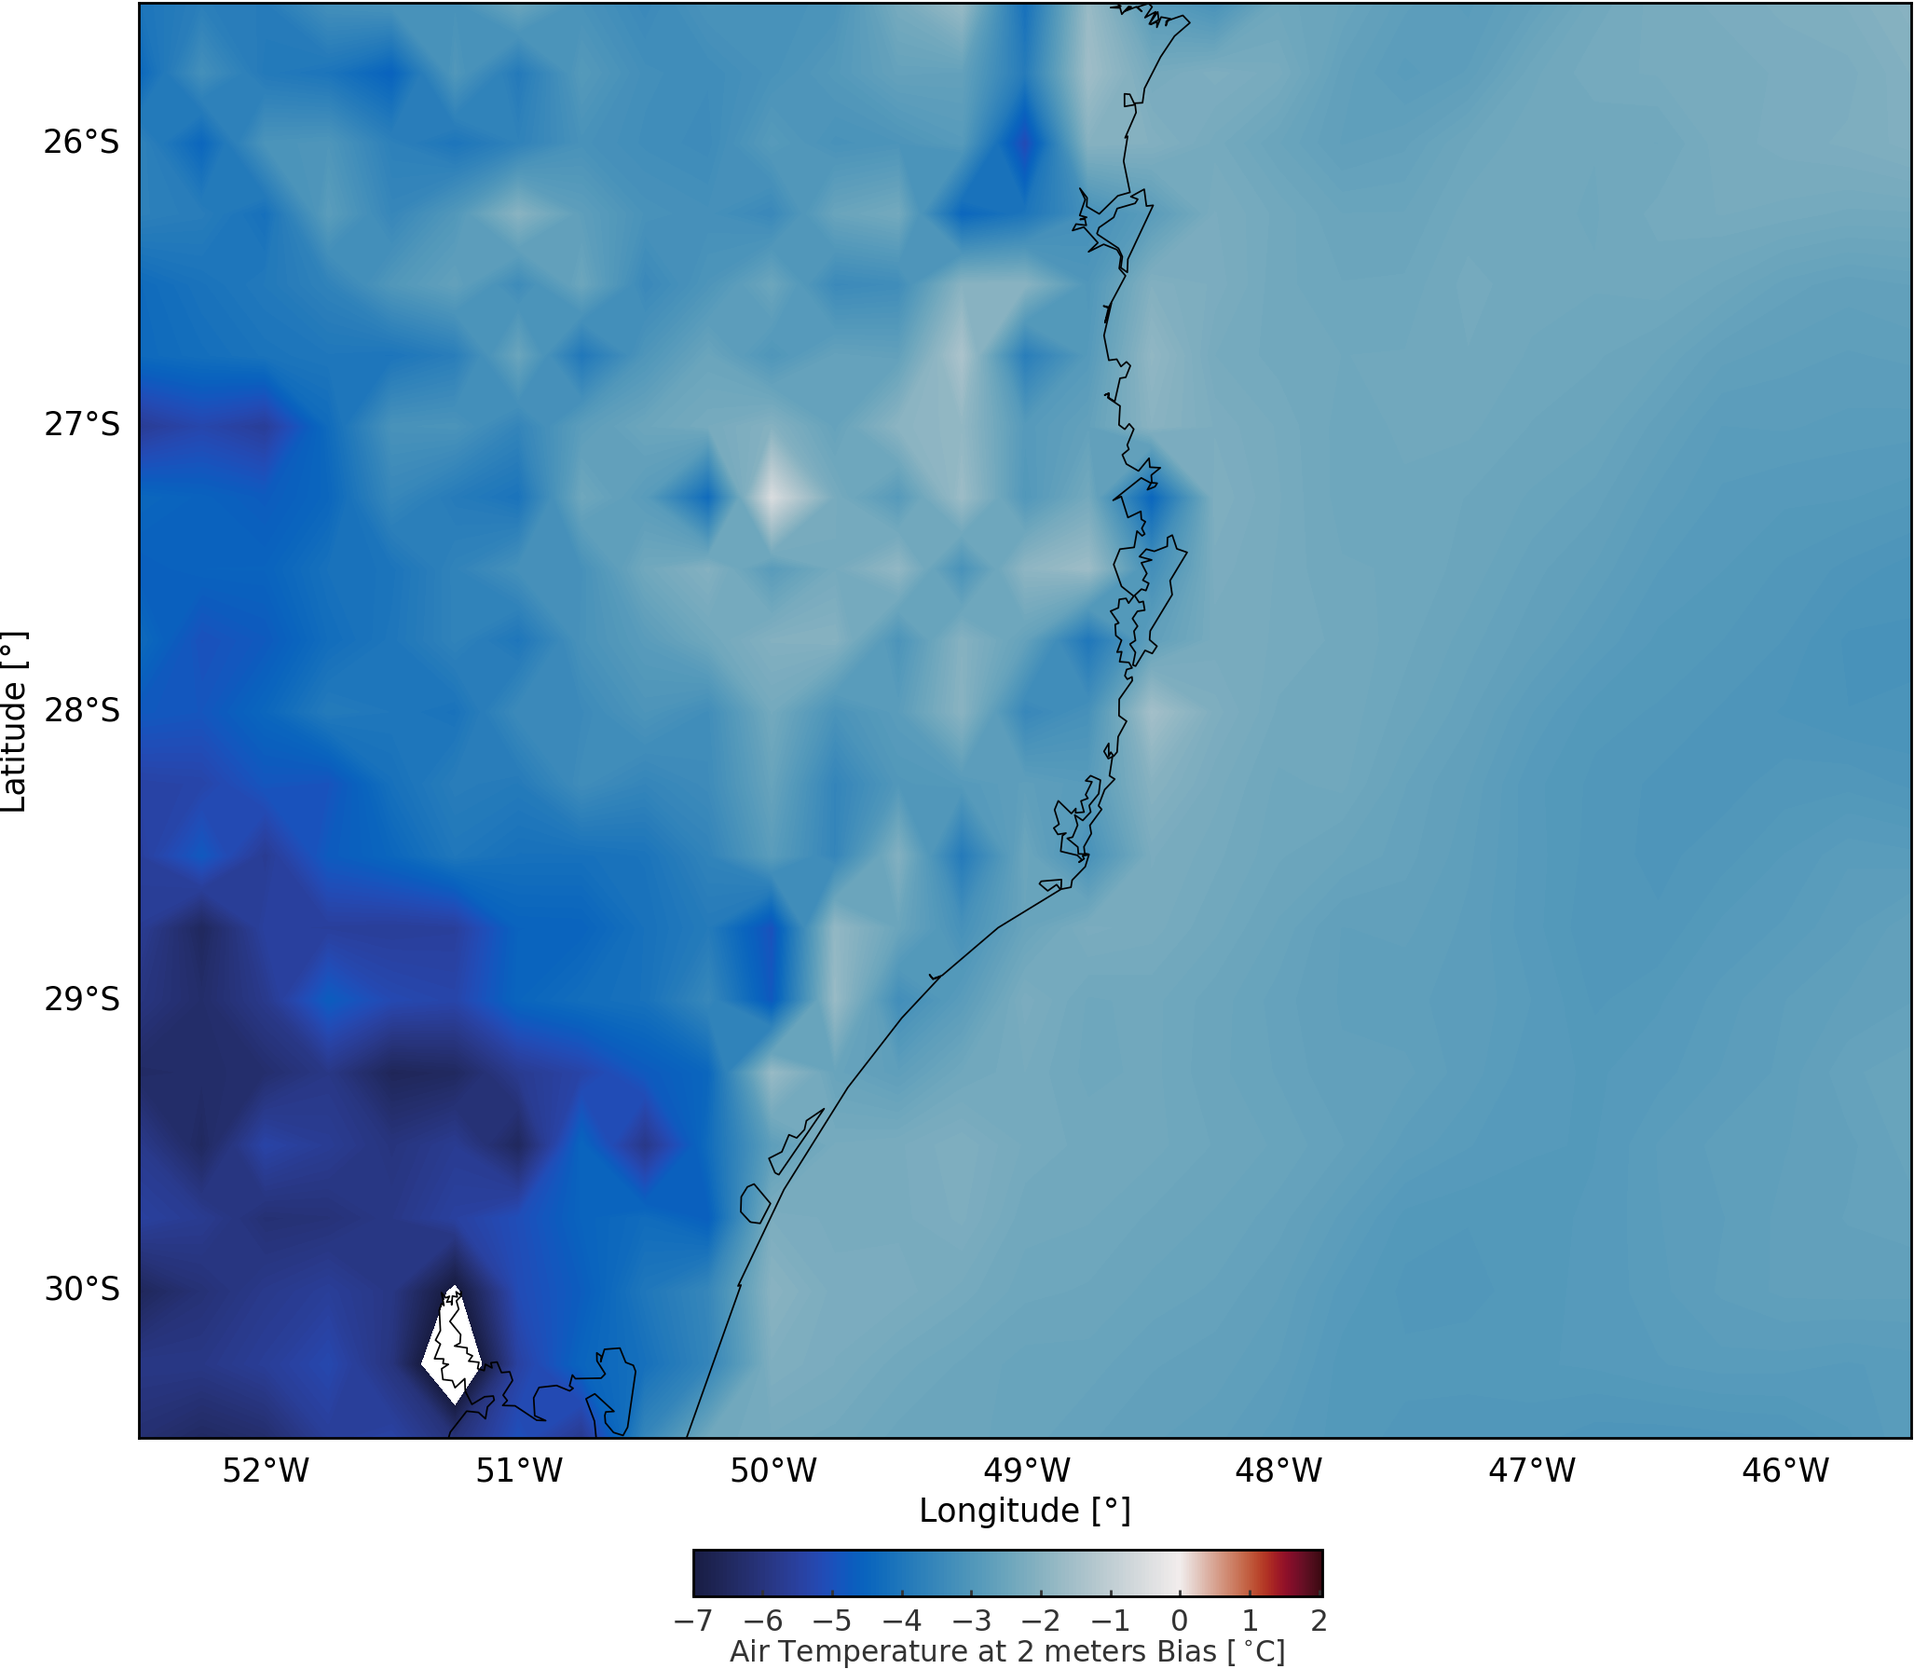
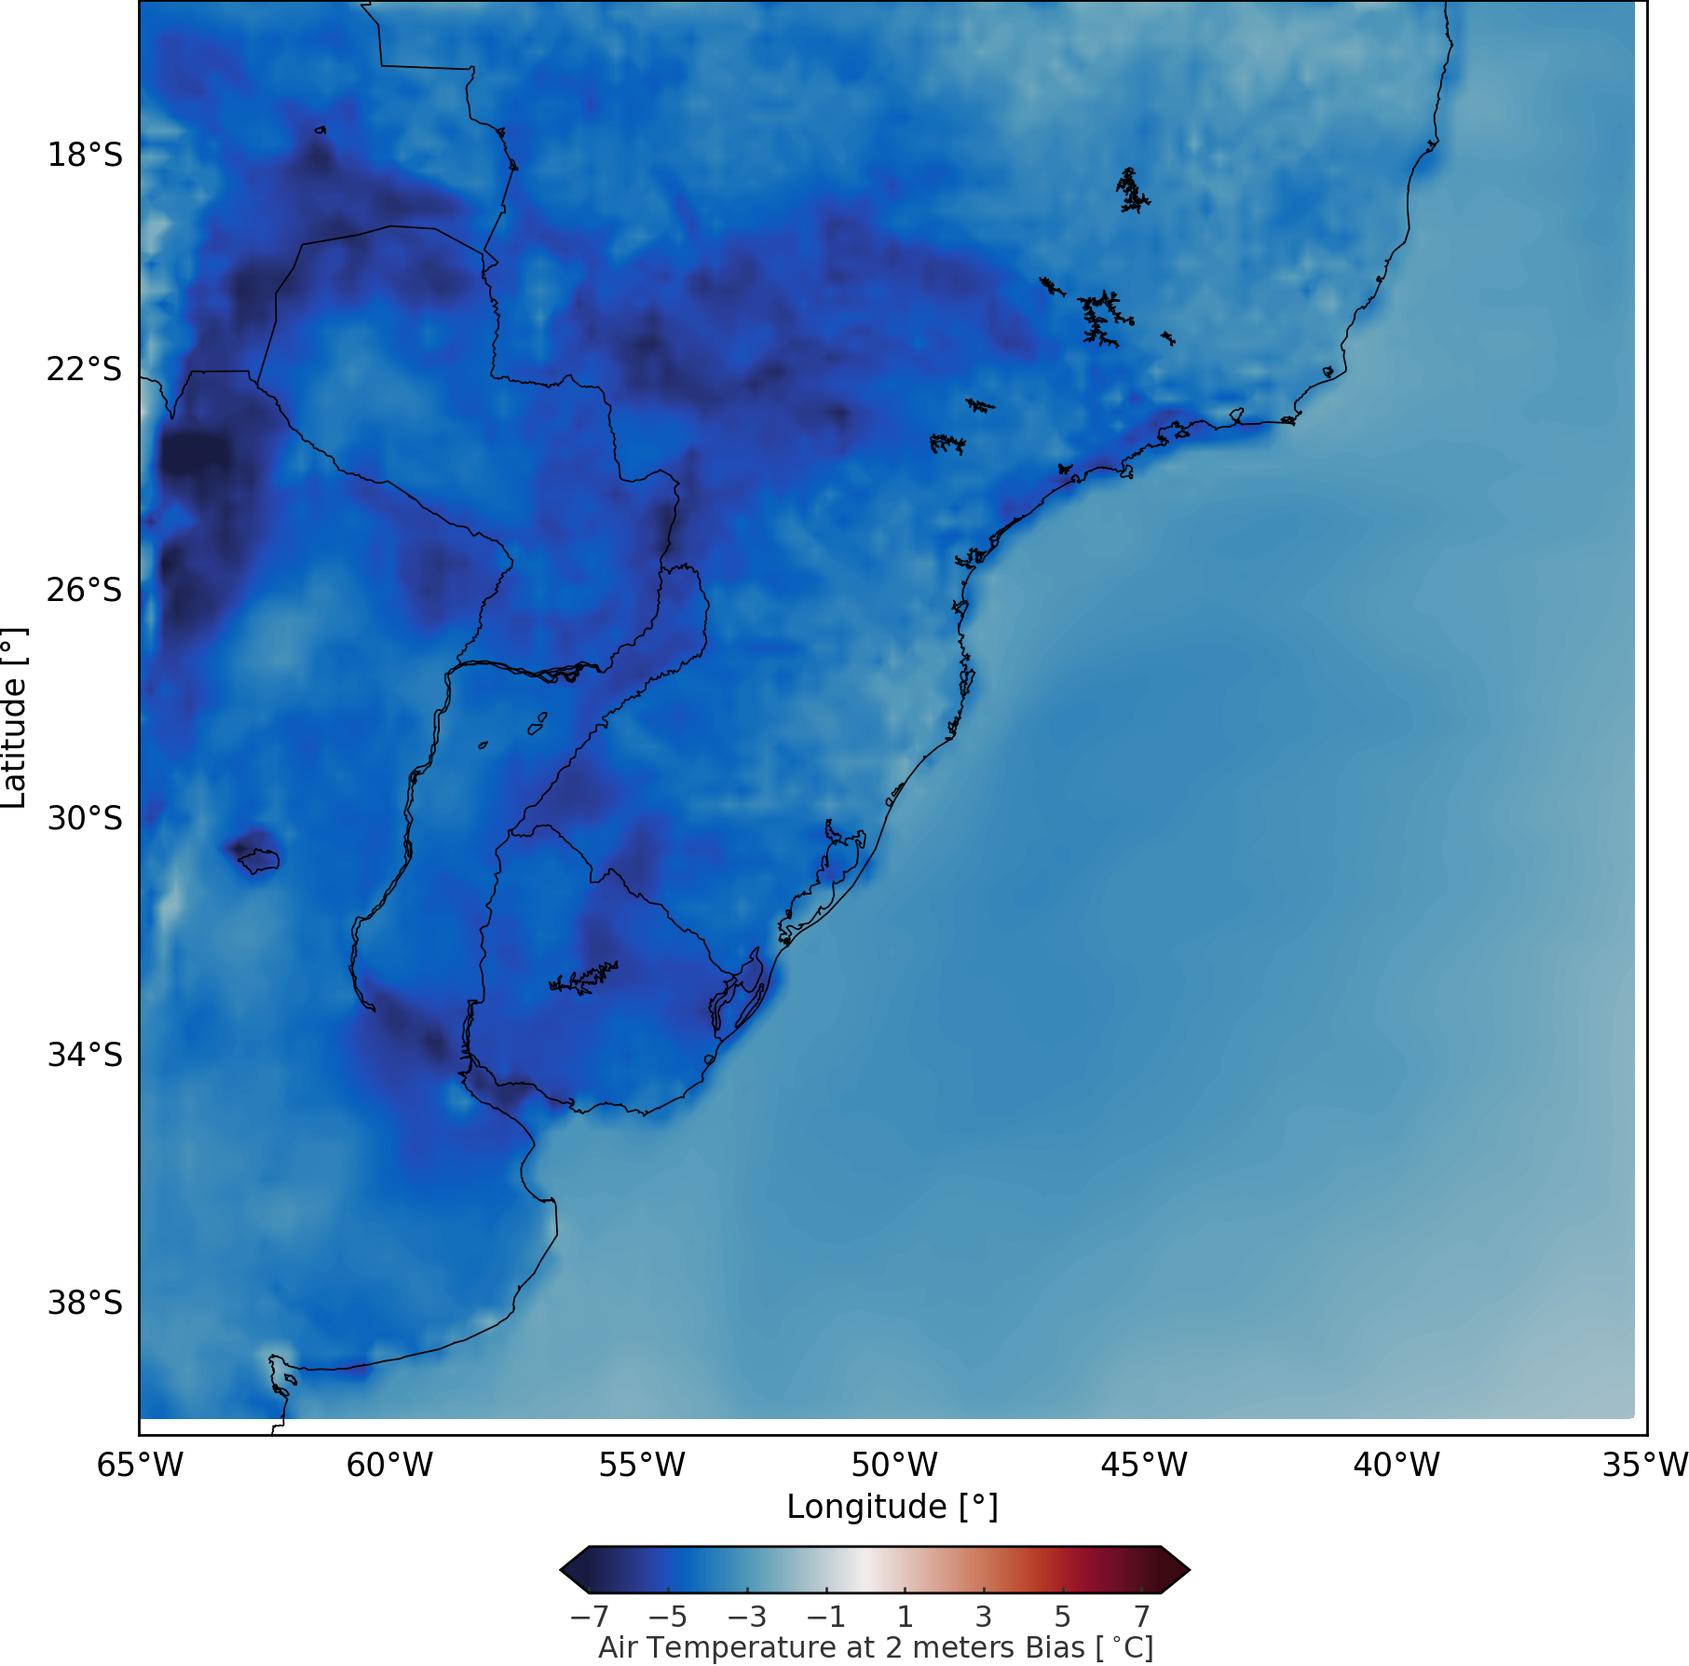
Updating

diff --git a/evaluation_wrf.py b/evaluation_wrf.py
@@ -26,16 +26,13 @@ Compare:
         Temperature at 2 meters height (°C);
         Wind Speed at 10 m height (m/s);
         Sea Level Pressure (hPa);
-        
-    - MSWEP (Beck et al., 2019; http://www.gloh2o.org/):
-        Daily Precipitation (mm).
 
 Post-process the WRF simulation to match with the databases:
     cdo seltimestep,169/336 wrf.nc wrf_ts.nc
     cdo daymean wrf_ts.nc wrf_ts_daymean_mswep.nc
     cdo timselmean,6 wrf_ts.nc wrf_ts_6hour_cfsr.nc
 """
-  
+
 # Library import.
 import numpy as np
 import matplotlib.pyplot as plt
@@ -44,25 +41,22 @@ import netCDF4
 from   roms_libs import *
 import pyresample
 import cmocean
-import subprocess, os
-from wrf import destagger,getvar
-from sty import bg, rs
+import os
+from wrf import getvar
 from progress.bar import IncrementalBar
-matplotlib.use("Agg")
+matplotlib.use('Agg')
 
 # Customizations.
-bbox                = [-52.5, -45.5, -30.5, -25.5]
-lonbounds           = [-52.5,-45.5] 
-latbounds           = [-30.5,-25.5]
-wrf_file          = '/media/ueslei/Ueslei/INPE/PCI/Projetos/SC_2008/Outputs/normal/wrf.nc'
+bbox              = [-65,-35,-40,-15]
+lonbounds         = [-65,-35] 
+latbounds         = [-40,-15]
+wrf_file          = '/media/ueslei/Ueslei/INPE/PCI/Projetos/SC_2008/Outputs/normal/wrf_ts.nc'
 wrf_file_cfsr     = '/media/ueslei/Ueslei/INPE/PCI/Projetos/SC_2008/Outputs/normal/wrf_6h_ncks.nc'
-wrf_file_mswep    = '/media/ueslei/Ueslei/INPE/PCI/Projetos/SC_2008/Outputs/normal/wrf_daymean_ncks.nc'
 era_file          = '/media/ueslei/Ueslei/INPE/PCI/Projetos/SC_2008/Dados/Evaluation/ERA5/era5.nc'
 cfsr_file         = '/media/ueslei/Ueslei/INPE/PCI/Projetos/SC_2008/Dados/Evaluation/CFSR/cfsr.nc'
-mswep_file        = '/media/ueslei/Ueslei/INPE/PCI/Projetos/SC_2008/Dados/Evaluation/MSWEP/mswep.nc'
 
-clevs_bias_t2     = np.arange(-7,2.05,0.01)
-ticks_bias_t2     = np.arange(min(clevs_bias_t2),max(clevs_bias_t2),1)
+clevs_bias_t2     = np.arange(-7,7.5,0.01)
+ticks_bias_t2     = np.arange(min(clevs_bias_t2),max(clevs_bias_t2),2)
 clevs_rmse_t2     = np.arange(0,9.05,0.01)
 ticks_rmse_t2     = np.arange(min(clevs_rmse_t2),max(clevs_rmse_t2),1)
 clevs_nrmse_t2    = np.arange(0,0.405,0.001)
@@ -88,30 +82,21 @@ ticks_nrmse_slp   = np.arange(min(clevs_nrmse_slp),max(clevs_nrmse_slp),0.3)
 clevs_mae_slp     = np.arange(0,14.02,0.01)
 ticks_mae_slp     = np.arange(min(clevs_mae_slp),max(clevs_mae_slp),1)
 
-clevs_bias_prec   = np.arange(-15,225.1,0.1)
-ticks_bias_prec   = np.arange(min(clevs_bias_prec),max(clevs_bias_prec),20)
-clevs_rmse_prec   = np.arange(0,230.1,0.1)
-ticks_rmse_prec   = np.arange(min(clevs_rmse_prec),max(clevs_rmse_prec),20)
-clevs_nrmse_prec  = np.arange(0,230.03,0.1)
-ticks_nrmse_prec  = np.arange(min(clevs_nrmse_prec),max(clevs_nrmse_prec),5)
-clevs_mae_prec    = np.arange(0,5.02,0.01)
-ticks_mae_prec    = np.arange(min(clevs_mae_prec),max(clevs_mae_prec),1)
-
-
-print(bg.da_cyan+'Which data? (1) ERA5, (2) CFSR or (3) MSWEP?'+bg.rs)      
+print('Which data? (1) ERA5 or (2) CFSR?')      
 dataset  = input()
+
 if dataset == '1':
-    print(bg.da_cyan+'Evaluate which WRF-ARW variable? (1) Temperature at 2 meters, (2) Wind Speed at 10m, (3) Sea Level Pressure?'+bg.rs)
+    print('Evaluate which WRF-ARW variable? (1) Temperature at 2 meters, (2) Wind Speed at 10m, (3) Sea Level Pressure?')
     contourf_var  = input()
     if contourf_var == '1':
         nc_era      = netCDF4.Dataset(era_file)
-        lon_era     = nc_era.variables['longitude'][:]-180
+        lon_era     = nc_era.variables['longitude'][:]-360
         lat_era     = nc_era.variables['latitude'][:]
         latli       = np.argmin(np.abs(lat_era-latbounds[1]))
         latui       = np.argmin(np.abs(lat_era-latbounds[0])) 
         lonli       = np.argmin(np.abs(lon_era-lonbounds[0]))
         lonui       = np.argmin(np.abs(lon_era-lonbounds[1]))  
-        lon_era     = nc_era.variables['longitude'][lonli:lonui]-180
+        lon_era     = nc_era.variables['longitude'][lonli:lonui]-360
         lat_era     = nc_era.variables['latitude'][latli:latui]
         lon_era,lat_era = np.meshgrid(lon_era,lat_era)
         era_lat_len = len(lat_era[:,0])
@@ -126,8 +111,8 @@ if dataset == '1':
         bar.finish()
                        
         nc_wrf      = netCDF4.Dataset(wrf_file)
-        lon_wrf     = nc_wrf.variables['XLONG'][0,0,:]
-        lat_wrf     = nc_wrf.variables['XLAT'][0,:,0]               
+        lon_wrf     = nc_wrf.variables['XLONG'][0,:]
+        lat_wrf     = nc_wrf.variables['XLAT'][:,0]               
         latli       = np.argmin(np.abs(lat_wrf-latbounds[1]))
         latui       = np.argmin(np.abs(lat_wrf-latbounds[0])) 
         lonli       = np.argmin(np.abs(lon_wrf-lonbounds[0]))
@@ -173,8 +158,8 @@ if dataset == '1':
             bar.next()
         bar.finish()
         nc_wrf      = netCDF4.Dataset(wrf_file)
-        lon_wrf     = nc_wrf.variables['XLONG'][0,0,:]
-        lat_wrf     = nc_wrf.variables['XLAT'][0,:,0]               
+        lon_wrf     = nc_wrf.variables['XLONG'][0,:]
+        lat_wrf     = nc_wrf.variables['XLAT'][:,0]               
         latli       = np.argmin(np.abs(lat_wrf-latbounds[1]))
         latui       = np.argmin(np.abs(lat_wrf-latbounds[0])) 
         lonli       = np.argmin(np.abs(lon_wrf-lonbounds[0]))
@@ -226,8 +211,8 @@ if dataset == '1':
         bar.finish()  
 
         nc_wrf      = netCDF4.Dataset(wrf_file)
-        lon_wrf     = nc_wrf.variables['XLONG'][0,0,:]
-        lat_wrf     = nc_wrf.variables['XLAT'][0,:,0]               
+        lon_wrf     = nc_wrf.variables['XLONG'][0,:]
+        lat_wrf     = nc_wrf.variables['XLAT'][:,0]               
         latli       = np.argmin(np.abs(lat_wrf-latbounds[1]))
         latui       = np.argmin(np.abs(lat_wrf-latbounds[0])) 
         lonli       = np.argmin(np.abs(lon_wrf-lonbounds[0]))
@@ -249,7 +234,7 @@ if dataset == '1':
         bar.finish()  
         
 if dataset == '2':
-    print(bg.da_cyan+'Evaluate which WRF-ARW variable? (1) Temperature at 2 meters, (2) Wind Speed at 10m or (3) Sea Level Pressure?'+bg.rs)
+    print('Evaluate which WRF-ARW variable? (1) Temperature at 2 meters, (2) Wind Speed at 10m or (3) Sea Level Pressure?')
     contourf_var  = input()
     if contourf_var=='1':
         nc_cfsr      = netCDF4.Dataset(cfsr_file)
@@ -396,58 +381,7 @@ if dataset == '2':
             bar.next()
         bar.finish() 
 
-if dataset=='3':
-        contourf_var  = 1
-        nc_mswep      = netCDF4.Dataset(mswep_file)
-        lon_mswep     = nc_mswep.variables['lon'][:]
-        lat_mswep     = nc_mswep.variables['lat'][:]
-        latli_mswep   = np.argmin(np.abs(lat_mswep-latbounds[1]))
-        latui_mswep   = np.argmin(np.abs(lat_mswep-latbounds[0])) 
-        lonli_mswep   = np.argmin(np.abs(lon_mswep-lonbounds[0]))
-        lonui_mswep   = np.argmin(np.abs(lon_mswep-lonbounds[1]))
-        lon_mswep     = nc_mswep.variables['lon'][lonli_mswep:lonui_mswep]
-        lat_mswep     = nc_mswep.variables['lat'][latli_mswep:latui_mswep]
-        lon_mswep,lat_mswep = np.meshgrid(lon_mswep,lat_mswep)
-        mswep_loop    = len(nc_mswep.variables['time'][:])
-        mswep_lat_len = len(lat_mswep[:,0])
-        mswep_lon_len = len(lon_mswep[0, :])
-        observed      = np.zeros([mswep_loop,mswep_lat_len,mswep_lon_len])
-        bar           = IncrementalBar('Processing Precipitation from MSWEP', max=mswep_loop)  
-        for i in range(0,mswep_loop):
-            rain_mswep      = nc_mswep.variables['precipitation'][i,latli_mswep:latui_mswep,lonli_mswep:lonui_mswep]           
-            observed[i,:,:] = rain_mswep
-            bar.next()
-        bar.finish() 
-
-        nc_wrf      = netCDF4.Dataset(wrf_file_mswep)
-        lon_wrf     = nc_wrf.variables['XLONG'][0,:]
-        lat_wrf     = nc_wrf.variables['XLAT'][:,0]               
-        latli       = np.argmin(np.abs(lat_wrf-latbounds[1]))
-        latui       = np.argmin(np.abs(lat_wrf-latbounds[0])) 
-        lonli       = np.argmin(np.abs(lon_wrf-lonbounds[0]))
-        lonui       = np.argmin(np.abs(lon_wrf-lonbounds[1]))
-        lon_wrf     = lon_wrf[lonli:lonui]
-        lat_wrf     = lat_wrf[latui:latli]
-        lon_wrf,lat_wrf = np.meshgrid(lon_wrf,lat_wrf)      
-        wrf_loop    = len(nc_wrf.variables['Times'][:])
-        wrf_lat_len = len(lat_wrf[:,0])
-        wrf_lon_len = len(lon_wrf[0,:])
-        orig_def    = pyresample.geometry.SwathDefinition(lons=lon_wrf, lats=lat_wrf)
-        targ_def    = pyresample.geometry.SwathDefinition(lons=lon_mswep, lats=lat_mswep)
-        rainc_wrf2  = np.zeros([mswep_loop,mswep_lat_len,mswep_lon_len])
-        rainnc_wrf2 = np.zeros([mswep_loop,mswep_lat_len,mswep_lon_len])   
-        rain_wrf2   = np.zeros([mswep_loop,mswep_lat_len,mswep_lon_len])   
-        bar         = IncrementalBar('Processing Precipitation from WRF', max=mswep_loop)  
-        for i in range(0,wrf_loop):  
-            rainc_wrf          =  nc_wrf.variables['RAINC'][i,latui:latli,lonli:lonui]
-            rainc_wrf2[i,:,:]  = pyresample.kd_tree.resample_gauss(orig_def, rainc_wrf, targ_def, radius_of_influence=50000, neighbours=10,sigmas=25000, fill_value=None)
-            rainnc_wrf         =  nc_wrf.variables['RAINNC'][i,latui:latli,lonli:lonui]
-            rainnc_wrf2[i,:,:] = pyresample.kd_tree.resample_gauss(orig_def, rainnc_wrf, targ_def, radius_of_influence=50000, neighbours=10,sigmas=25000, fill_value=None)
-            bar.next()
-        bar.finish() 
-        expected  = rainc_wrf2+rainnc_wrf2
-
-print(bg.da_cyan+'Which statistical metric? (1) Bias, (2) RMSE, (3) NRMSE or (4) MAE.'+bg.rs)
+print('Which statistical metric? (1) Bias, (2) RMSE, (3) NRMSE or (4) MAE.')
 metric  = input()
 if metric=='1':
     val = np.mean(expected-observed,axis=0)
@@ -473,8 +407,8 @@ fig  = plt.figure(1,figsize=(10,8))
 plt.xlabel('Longitude'u' [\N{DEGREE SIGN}]',labelpad=18,size=10)
 plt.ylabel('Latitude'u' [\N{DEGREE SIGN}]',labelpad=33,size=10)
 ax   = fig.add_subplot(111)
-m.drawparallels(np.arange(-90.,120.,1), linewidth=0.00, color='black', labels=[1,0,0,1],labelstyle="N/S",fontsize=10)
-m.drawmeridians(np.arange(-180.,180.,1), linewidth=0.00,color='black', labels=[1,0,0,1],labelstyle="N/S",fontsize=10)
+m.drawparallels(np.arange(-90.,120.,4), linewidth=0.00, color='black', labels=[1,0,0,1],labelstyle="N/S",fontsize=10)
+m.drawmeridians(np.arange(-180.,180.,5), linewidth=0.00,color='black', labels=[1,0,0,1],labelstyle="N/S",fontsize=10)
 m.drawcountries(color = '#000000',linewidth=0.5)
 m.drawcoastlines(color = '#000000',linewidth=0.5)
 
@@ -514,42 +448,24 @@ if metric=='3' and contourf_var=='3':
 if metric=='4' and contourf_var=='3':
     clevs = clevs_mae_slp
     ticks = ticks_mae_slp
-if metric=='1' and dataset=='3':
-    clevs = clevs_bias_prec
-    ticks = ticks_bias_prec
-if metric=='2' and dataset=='3':
-    clevs = clevs_rmse_prec
-    ticks = ticks_rmse_prec
-if metric=='3' and dataset=='3':
-    clevs = clevs_nrmse_prec
-    ticks = ticks_nrmse_prec
-if metric=='4' and dataset=='3':
-    clevs = clevs_mae_prec
-    ticks = ticks_mae_prec
 
 if dataset == '1':
     if metric=='2' or metric=='3' or metric == '4':
         cmap  = matplotlib.pyplot.jet()
-        h1    = m.contourf(lon_era, lat_era, val, clevs,latlon=True,cmap=cmap)
+        h1    = m.contourf(lon_era, lat_era, val, clevs,latlon=True,cmap=cmap,extend="both")
     if metric=='1':
         cmap  = cmocean.cm.balance
-        h1    = m.contourf(lon_era, lat_era, val, clevs,latlon=True,cmap=cmap,norm=MidpointNormalize(midpoint=0))          
+        h1    = m.contourf(lon_era, lat_era, val, clevs,latlon=True,cmap=cmap,norm=MidpointNormalize(midpoint=0),extend="both")          
 if dataset =='2':
     if metric=='2' or metric=='3' or metric == '4':
         cmap  = matplotlib.pyplot.jet()
         h1    = m.contourf(lon_cfsr, lat_cfsr, val, clevs,latlon=True,cmap=cmap)   
     if metric=='1':
         cmap  = cmocean.cm.balance
-        h1    = m.contourf(lon_cfsr, lat_cfsr, val, clevs,latlon=True,cmap=cmap,norm=MidpointNormalize(midpoint=0)) 
-if dataset == '3':
-    if metric=='2' or metric=='3' or metric == '4':
-        cmap  = matplotlib.pyplot.jet()
-        h1    = m.contourf(lon_mswep, lat_mswep, val, clevs,latlon=True,cmap=cmap)   
-    if metric=='1':
-        cmap  = cmocean.cm.balance
-        h1    = m.contourf(lon_mswep, lat_mswep, val, clevs,latlon=True,cmap=cmap,norm=MidpointNormalize(midpoint=0)) 
+        h1    = m.contourf(lon_cfsr, lat_cfsr, val, clevs,latlon=True,cmap=cmap,norm=MidpointNormalize(midpoint=0),extend="both") 
 cax   = fig.add_axes([0.37, 0.025, 0.27, 0.025])     
 cb    = fig.colorbar(h1, cax=cax, orientation="horizontal",panchor=(0.5,0.5),shrink=0.3,ticks=ticks,pad=-10.5)
+
 
 if metric=='1':
     if contourf_var=='1':
@@ -558,8 +474,7 @@ if metric=='1':
         cb.set_label(r'Wind Speed at 10 meters Bias [m.s⁻¹]', fontsize=9, color='0.2',labelpad=0)
     if contourf_var=='3':
          cb.set_label(r'Sea Level Pressure Bias [hPa]', fontsize=9, color='0.2',labelpad=0) 
-    if dataset=='3':
-        cb.set_label(r'Daily Precipitation Bias [mm]', fontsize=9, color='0.2',labelpad=0)                
+            
 if metric=='2':
     if contourf_var=='1':
         cb.set_label(r'Air Temperature at 2 meters Root Mean Square Error [$^\circ\!$C]', fontsize=5, color='0.2',labelpad=-0.2)
@@ -567,8 +482,7 @@ if metric=='2':
         cb.set_label(r'Wind Speed at 10 meters Root Mean Square Error [m.s⁻¹]', fontsize=5, color='0.2',labelpad=-0.2)
     if contourf_var=='3':
         cb.set_label(r'Sea Level Pressure Root Mean Square Error [hPa]', fontsize=5, color='0.2',labelpad=-0.2)  
-    if dataset=='3':
-        cb.set_label(r'Daily Precipitation Root Mean Square Error [mm]', fontsize=5, color='0.2',labelpad=-0.2)               
+          
 if metric=='3':
     if contourf_var=='1':
         cb.set_label(r'Air Temperature at 2 meters Normalized Root Mean Square Error [$^\circ\!$C]', fontsize=5, color='0.2',labelpad=-0.2)
@@ -576,8 +490,7 @@ if metric=='3':
         cb.set_label(r'Wind Speed at 10 meters Normalized Root Mean Square Error [m.s⁻¹]', fontsize=5, color='0.2',labelpad=-0.2)
     if contourf_var=='3':
         cb.set_label(r'Sea Level Pressure Normalized Root Mean Square Error [hPa]', fontsize=5, color='0.2',labelpad=-0.2)  
-    if dataset=='3':
-        cb.set_label(r'Daily Precipitation Normalized Root Mean Square Error [mm]', fontsize=5, color='0.2',labelpad=-0.2)               
+            
 if metric=='4':
     if contourf_var=='1':
         cb.set_label(r'Air Temperature at 2 meters Mean Absolute Error [$^\circ\!$C]', fontsize=5, color='0.2',labelpad=-0.2)
@@ -585,8 +498,6 @@ if metric=='4':
         cb.set_label(r'Wind Speed at 10 meters Mean Absolute Error [m.s⁻¹]', fontsize=5, color='0.2',labelpad=-0.2)
     if contourf_var=='3':
         cb.set_label(r'Sea Level Pressure Mean Absolute Error [hPa]', fontsize=5, color='0.2',labelpad=-0.2)  
-    if dataset=='3':
-        cb.set_label(r'Daily Precipitation Mean Absolute Error [mm]', fontsize=5, color='0.2',labelpad=-0.2)               
 
 cb.ax.tick_params(labelsize=9, length=2, color='0.2', labelcolor='0.2',direction='in') 
 cb.set_ticks(ticks)
@@ -642,13 +553,4 @@ if metric == '4' and dataset == '2' and contourf_var == '2':
         plt.savefig('./wrf_evaluation/wind_mae_wrf_cfsr.png', transparent=False, bbox_inches = 'tight', pad_inches=0, dpi=250)              
 if metric == '4' and dataset == '2' and contourf_var == '3':
         plt.savefig('./wrf_evaluation/slp_mae_wrf_cfsr.png', transparent=False, bbox_inches = 'tight', pad_inches=0, dpi=250)      
-if metric == '1' and dataset == '3':
-        plt.savefig('./wrf_evaluation/prec_bias_wrf_mswep.png', transparent=False, bbox_inches = 'tight', pad_inches=0, dpi=250)  
-if metric == '2' and dataset == '3':
-        plt.savefig('./wrf_evaluation/prec_rmse_wrf_mswep.png', transparent=False, bbox_inches = 'tight', pad_inches=0, dpi=250)  
-if metric == '3' and dataset == '3':
-        plt.savefig('./wrf_evaluation/prec_nrmse_wrf_mswep.png', transparent=False, bbox_inches = 'tight', pad_inches=0, dpi=250)  
-if metric == '4' and dataset == '3':
-        plt.savefig('./wrf_evaluation/prec_mae_wrf_mswep.png', transparent=False, bbox_inches = 'tight', pad_inches=0, dpi=250) 
-
 
